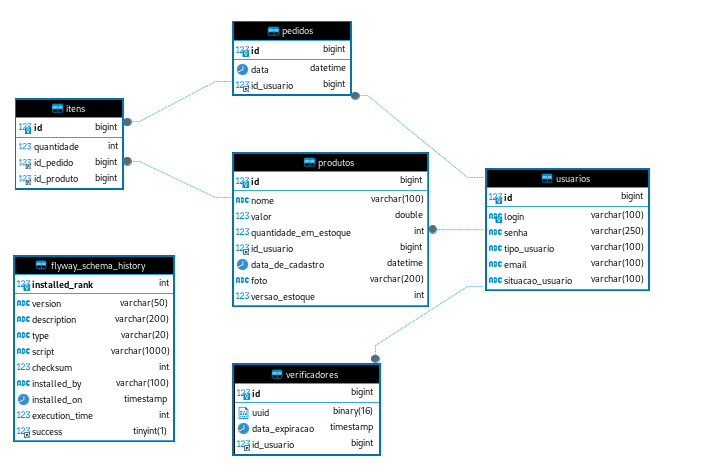
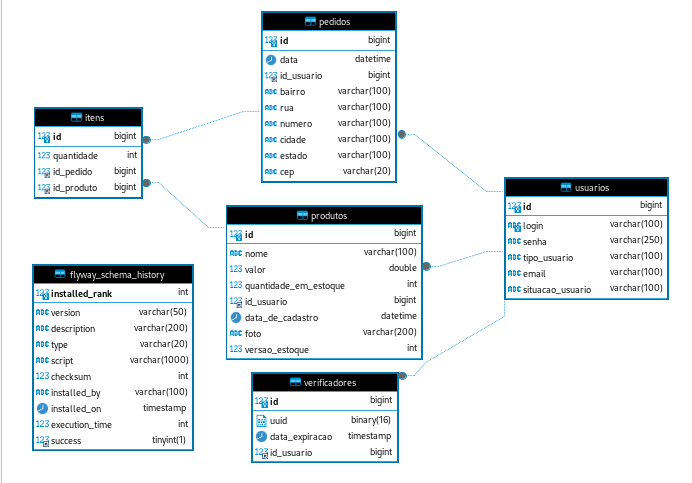
update doc

diff --git a/docs/CadastrarControllerApi.md b/docs/CadastrarControllerApi.md
@@ -5,11 +5,12 @@ All URIs are relative to *http://localhost:8080*
 Method | HTTP request | Description
 ------------- | ------------- | -------------
 [**cadastrarUsuario**](CadastrarControllerApi.md#cadastrarUsuario) | **POST** /cadastrar | 
+[**reenviarEmail**](CadastrarControllerApi.md#reenviarEmail) | **GET** /cadastrar/reenviar/{id} | 
 [**verificarCadastroDeUsuario**](CadastrarControllerApi.md#verificarCadastroDeUsuario) | **GET** /cadastrar/{uuid} | 
 
 <a name="cadastrarUsuario"></a>
 # **cadastrarUsuario**
-> DadosMensagemGenerica cadastrarUsuario(body)
+> DadosDetalhamentoUsuario cadastrarUsuario(body)
 
 
 
@@ -23,7 +24,7 @@ Method | HTTP request | Description
 CadastrarControllerApi apiInstance = new CadastrarControllerApi();
 DadosCadastroUsuario body = new DadosCadastroUsuario(); // DadosCadastroUsuario | 
 try {
-    DadosMensagemGenerica result = apiInstance.cadastrarUsuario(body);
+    DadosDetalhamentoUsuario result = apiInstance.cadastrarUsuario(body);
     System.out.println(result);
 } catch (ApiException e) {
     System.err.println("Exception when calling CadastrarControllerApi#cadastrarUsuario");
@@ -39,7 +40,7 @@ Name | Type | Description  | Notes
 
 ### Return type
 
-[**DadosMensagemGenerica**](DadosMensagemGenerica.md)
+[**DadosDetalhamentoUsuario**](DadosDetalhamentoUsuario.md)
 
 ### Authorization
 
@@ -48,6 +49,49 @@ No authorization required
 ### HTTP request headers
 
  - **Content-Type**: application/json
+ - **Accept**: */*
+
+<a name="reenviarEmail"></a>
+# **reenviarEmail**
+> DadosDetalhamentoUsuario reenviarEmail(id)
+
+
+
+### Example
+```java
+// Import classes:
+//import io.swagger.client.ApiException;
+//import io.swagger.client.api.CadastrarControllerApi;
+
+
+CadastrarControllerApi apiInstance = new CadastrarControllerApi();
+Long id = 789L; // Long | 
+try {
+    DadosDetalhamentoUsuario result = apiInstance.reenviarEmail(id);
+    System.out.println(result);
+} catch (ApiException e) {
+    System.err.println("Exception when calling CadastrarControllerApi#reenviarEmail");
+    e.printStackTrace();
+}
+```
+
+### Parameters
+
+Name | Type | Description  | Notes
+------------- | ------------- | ------------- | -------------
+ **id** | **Long**|  |
+
+### Return type
+
+[**DadosDetalhamentoUsuario**](DadosDetalhamentoUsuario.md)
+
+### Authorization
+
+No authorization required
+
+### HTTP request headers
+
+ - **Content-Type**: Not defined
  - **Accept**: */*
 
 <a name="verificarCadastroDeUsuario"></a>

diff --git a/README.md b/README.md
@@ -31,6 +31,7 @@ All URIs are relative to *http://localhost:8080*
 Class | Method | HTTP request | Description
 ------------ | ------------- | ------------- | -------------
 *CadastrarControllerApi* | [**cadastrarUsuario**](docs/CadastrarControllerApi.md#cadastrarUsuario) | **POST** /cadastrar | 
+*CadastrarControllerApi* | [**reenviarEmail**](docs/CadastrarControllerApi.md#reenviarEmail) | **GET** /cadastrar/reenviar/{id} | 
 *CadastrarControllerApi* | [**verificarCadastroDeUsuario**](docs/CadastrarControllerApi.md#verificarCadastroDeUsuario) | **GET** /cadastrar/{uuid} | 
 *LoginControllerApi* | [**efetuarLogin**](docs/LoginControllerApi.md#efetuarLogin) | **POST** /login | 
 *PedidoControllerApi* | [**cadastrarPedido**](docs/PedidoControllerApi.md#cadastrarPedido) | **POST** /pedidos | 
@@ -52,6 +53,7 @@ Class | Method | HTTP request | Description
  - [DadosAtualizacaoProduto](docs/DadosAtualizacaoProduto.md)
  - [DadosAtualizacaoUsuario](docs/DadosAtualizacaoUsuario.md)
  - [DadosAutenticacaoUsuario](docs/DadosAutenticacaoUsuario.md)
+ - [DadosCadastroEndereco](docs/DadosCadastroEndereco.md)
  - [DadosCadastroItem](docs/DadosCadastroItem.md)
  - [DadosCadastroPedido](docs/DadosCadastroPedido.md)
  - [DadosCadastroProduto](docs/DadosCadastroProduto.md)
@@ -61,7 +63,6 @@ Class | Method | HTTP request | Description
  - [DadosDetalhamentoPedido](docs/DadosDetalhamentoPedido.md)
  - [DadosDetalhamentoProduto](docs/DadosDetalhamentoProduto.md)
  - [DadosDetalhamentoUsuario](docs/DadosDetalhamentoUsuario.md)
- - [DadosMensagemGenerica](docs/DadosMensagemGenerica.md)
  - [FotoIdBody](docs/FotoIdBody.md)
  - [Pageable](docs/Pageable.md)
 

diff --git a/docs/ProdutoControllerApi.md b/docs/ProdutoControllerApi.md
@@ -253,7 +253,7 @@ Name | Type | Description  | Notes
 
 <a name="uploadDeFotoDeProduto"></a>
 # **uploadDeFotoDeProduto**
-> DadosDetalhamentoProduto uploadDeFotoDeProduto(id, body)
+> Object uploadDeFotoDeProduto(id, body)
 
 
 
@@ -273,7 +273,7 @@ ProdutoControllerApi apiInstance = new ProdutoControllerApi();
 Long id = 789L; // Long | 
 FotoIdBody body = new FotoIdBody(); // FotoIdBody | 
 try {
-    DadosDetalhamentoProduto result = apiInstance.uploadDeFotoDeProduto(id, body);
+    Object result = apiInstance.uploadDeFotoDeProduto(id, body);
     System.out.println(result);
 } catch (ApiException e) {
     System.err.println("Exception when calling ProdutoControllerApi#uploadDeFotoDeProduto");
@@ -290,7 +290,7 @@ Name | Type | Description  | Notes
 
 ### Return type
 
-[**DadosDetalhamentoProduto**](DadosDetalhamentoProduto.md)
+**Object**
 
 ### Authorization
 

diff --git a/docs/PedidoControllerApi.md b/docs/PedidoControllerApi.md
@@ -11,7 +11,7 @@ Method | HTTP request | Description
 
 <a name="cadastrarPedido"></a>
 # **cadastrarPedido**
-> DadosDetalhamentoPedido cadastrarPedido(body)
+> Object cadastrarPedido(body)
 
 
 
@@ -30,7 +30,7 @@ ApiClient defaultClient = Configuration.getDefaultApiClient();
 PedidoControllerApi apiInstance = new PedidoControllerApi();
 DadosCadastroPedido body = new DadosCadastroPedido(); // DadosCadastroPedido | 
 try {
-    DadosDetalhamentoPedido result = apiInstance.cadastrarPedido(body);
+    Object result = apiInstance.cadastrarPedido(body);
     System.out.println(result);
 } catch (ApiException e) {
     System.err.println("Exception when calling PedidoControllerApi#cadastrarPedido");
@@ -46,7 +46,7 @@ Name | Type | Description  | Notes
 
 ### Return type
 
-[**DadosDetalhamentoPedido**](DadosDetalhamentoPedido.md)
+**Object**
 
 ### Authorization
 

diff --git a/docs/DadosDetalhamentoPedido.md b/docs/DadosDetalhamentoPedido.md
@@ -5,4 +5,10 @@ Name | Type | Description | Notes
 ------------ | ------------- | ------------- | -------------
 **idPedido** | **Long** |  |  [optional]
 **idUsuario** | **Long** |  |  [optional]
+**bairro** | **String** |  |  [optional]
+**rua** | **String** |  |  [optional]
+**numero** | **String** |  |  [optional]
+**cidade** | **String** |  |  [optional]
+**estado** | **String** |  |  [optional]
+**cep** | **String** |  |  [optional]
 **itens** | [**List&lt;DadosDetalhamentoItem&gt;**](DadosDetalhamentoItem.md) |  |  [optional]

diff --git a/docs/DadosCadastroPedido.md b/docs/DadosCadastroPedido.md
@@ -4,3 +4,4 @@
 Name | Type | Description | Notes
 ------------ | ------------- | ------------- | -------------
 **itens** | [**List&lt;DadosCadastroItem&gt;**](DadosCadastroItem.md) |  | 
+**endereco** | [**DadosCadastroEndereco**](DadosCadastroEndereco.md) |  |  [optional]
